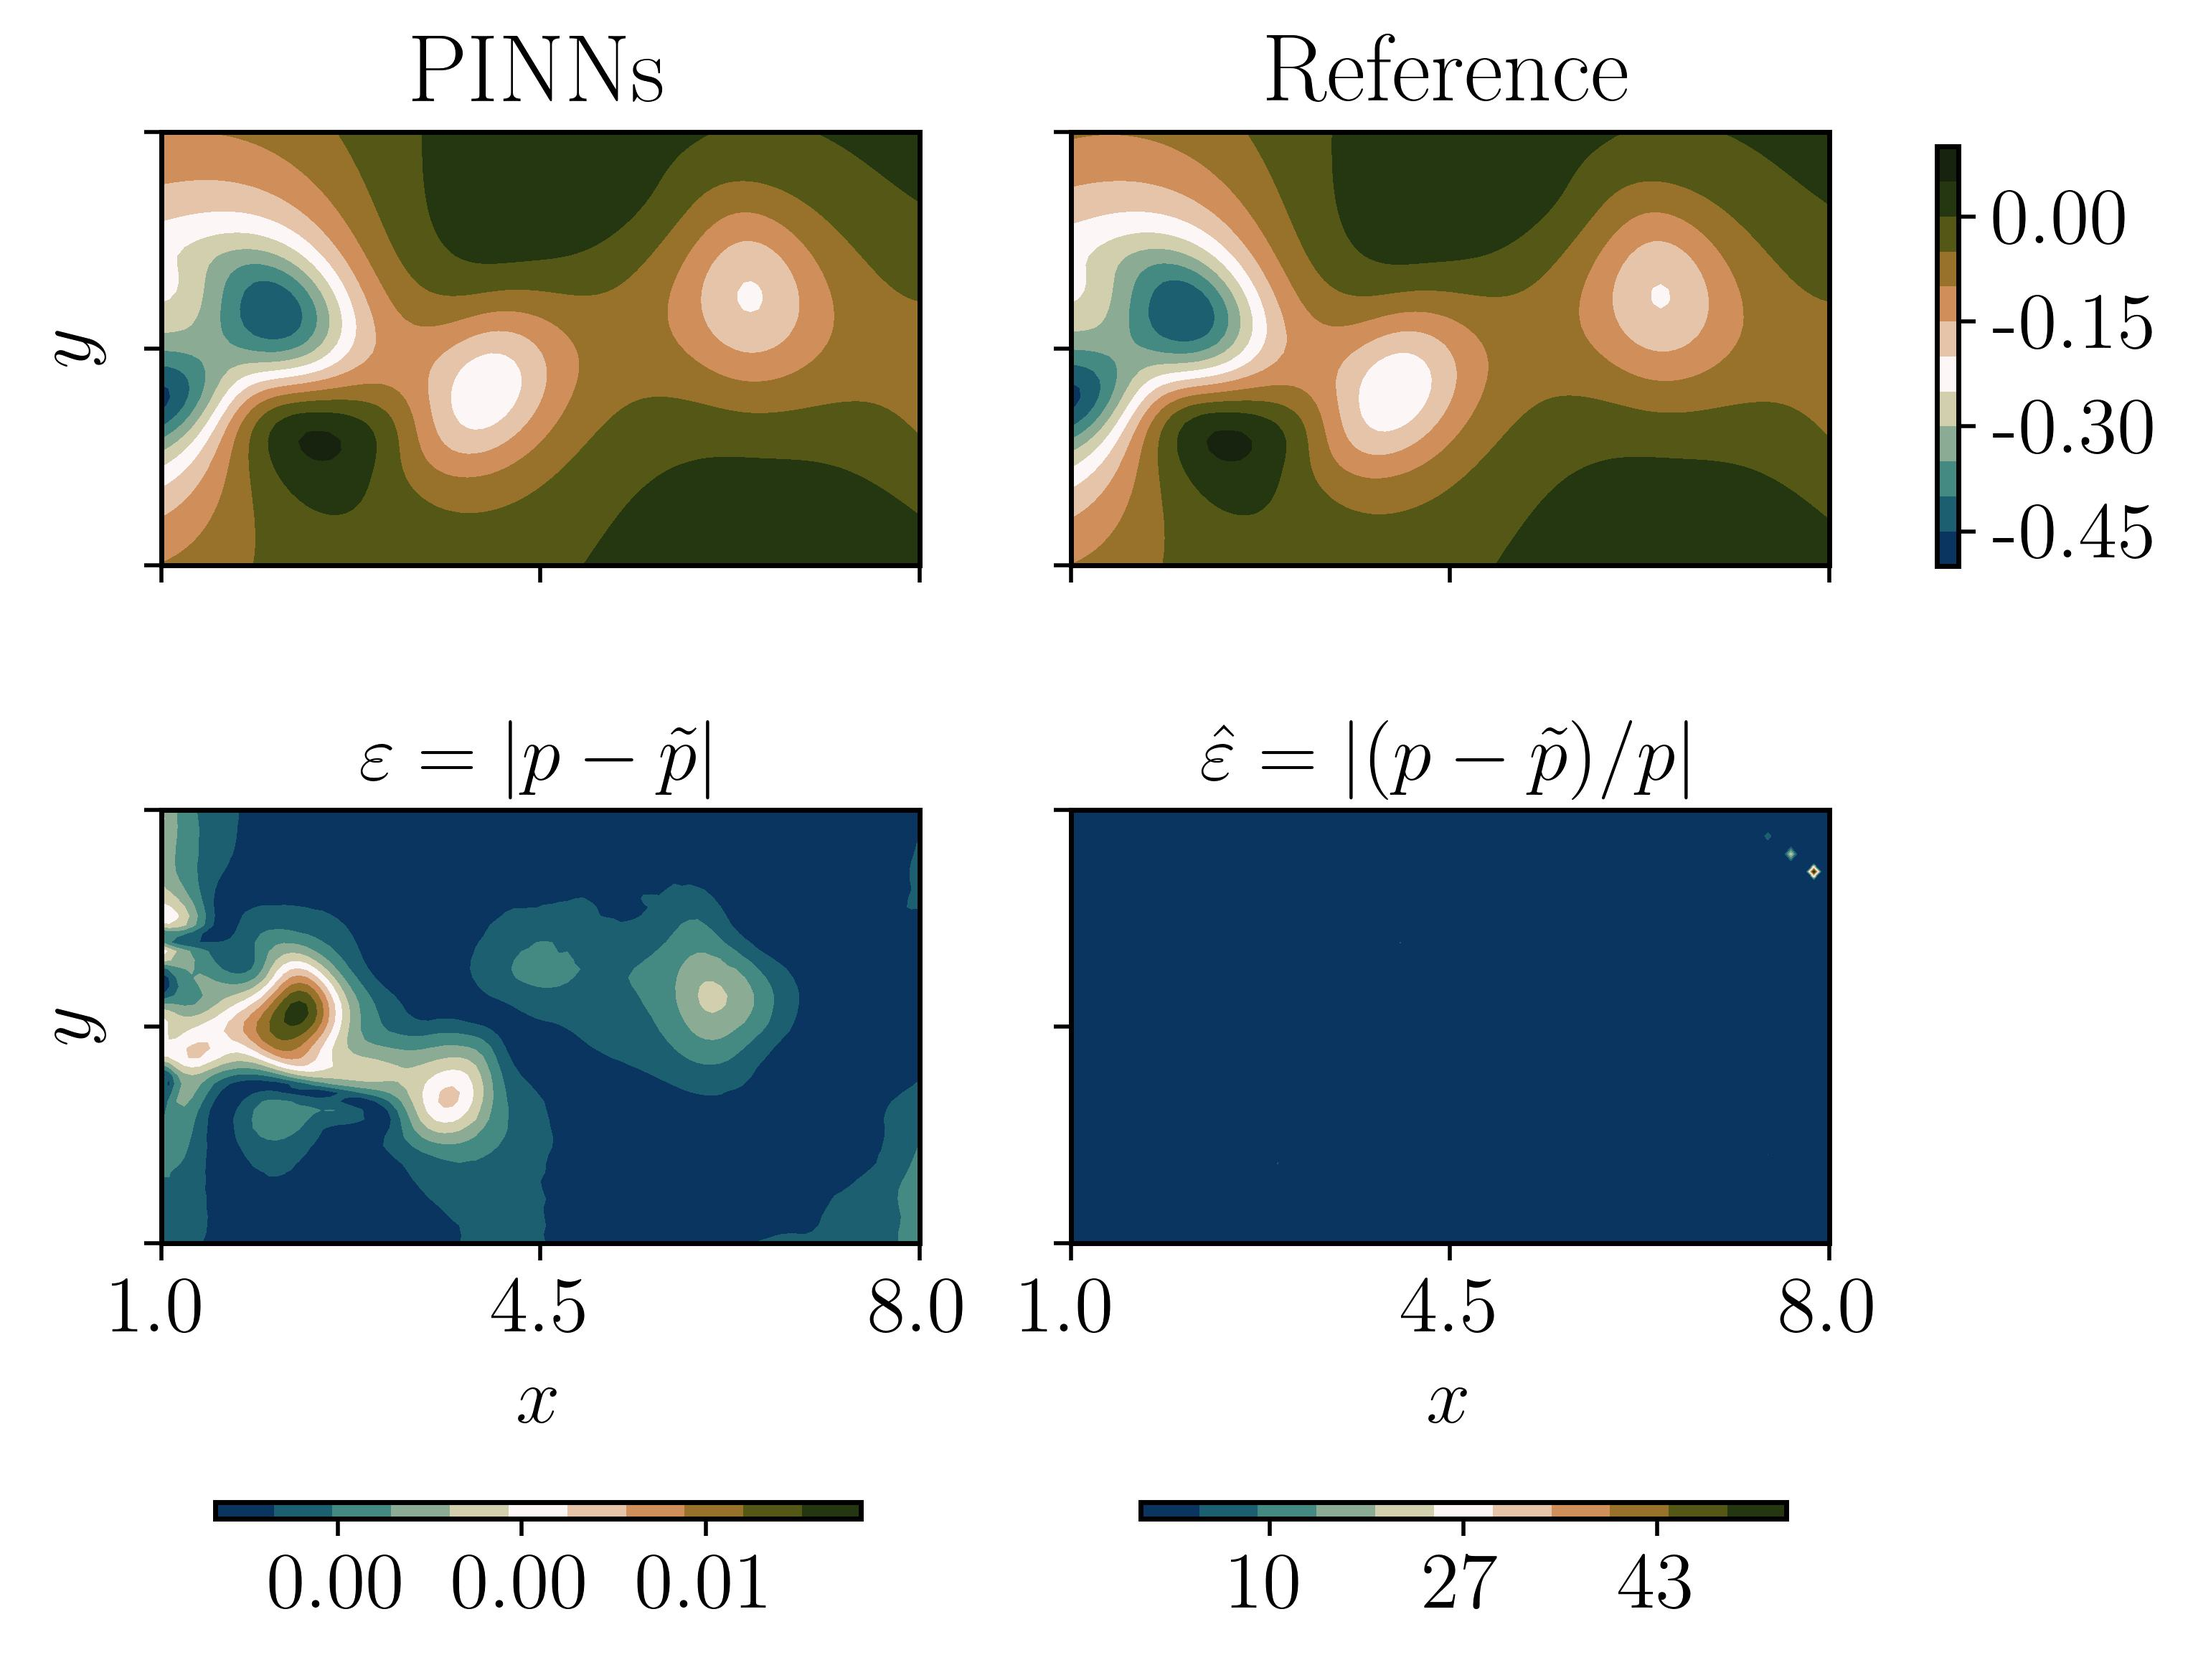
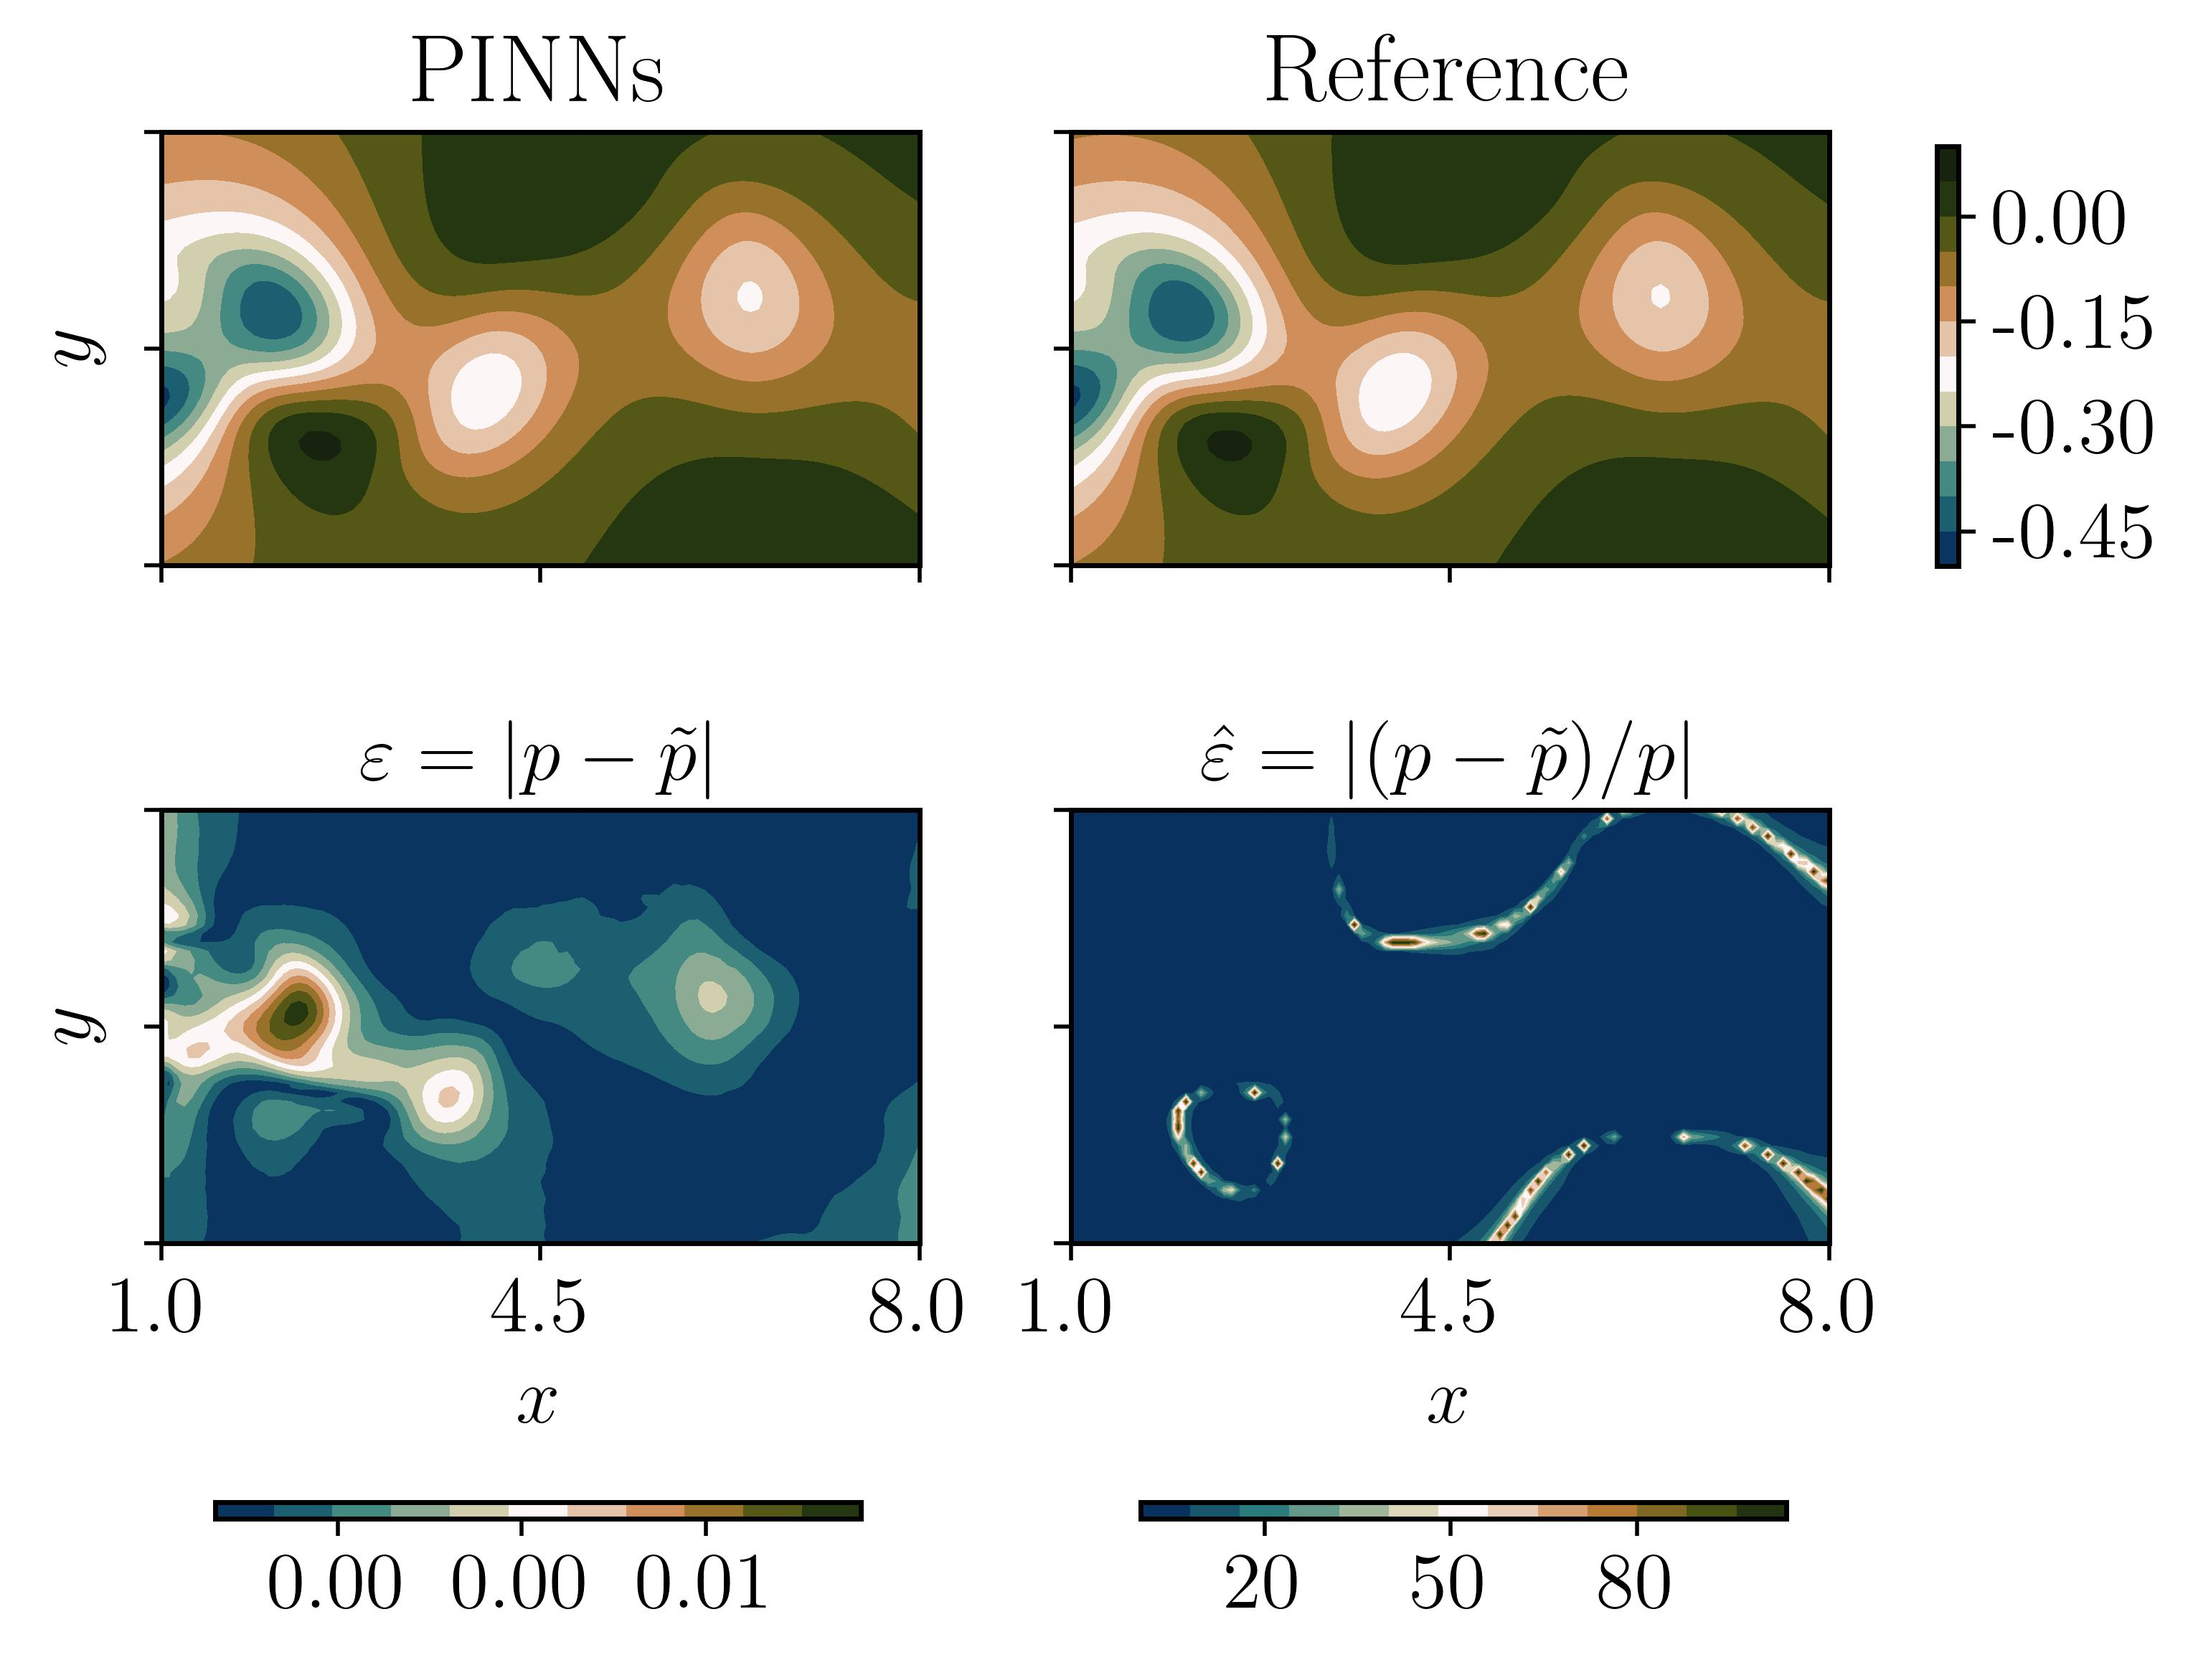
Update

diff --git a/cylinder_wake/post-processing/plot_res.py b/cylinder_wake/post-processing/plot_res.py
@@ -169,9 +169,9 @@ e_r_pinn = np.abs((p[:, :, n] - u_pinn[2, :, :, n]))/LA.norm(p[:, :, n,None],ord
 
 # e_r_pinn = np.abs((p[:, :, n] - u_pinn[2, :, :, n])/p[:, :, n])
 
-# e_r_pinn *= 100
-# loc = np.where(e_r_pinn >= 100)
-# e_r_pinn[loc] = 100
+e_r_pinn *= 100
+loc = np.where(e_r_pinn >= 100)
+e_r_pinn[loc] = 100
 
 # print(e_r_pinn)
 
@@ -226,7 +226,7 @@ ax[1,0].set_ylabel('$y$')
 ax[0,1].set_title('Reference')
 ax[0,0].set_title('PINNs')
 ax[1,0].set_title('$\\varepsilon = | p - \\tilde{p} |$', fontsize = 16)
-ax[1,1].set_title('$\\hat{\\varepsilon} = | (p - \\tilde{p})$' + "/" + "$ p |$", fontsize = 16)
+ax[1,1].set_title('$\\hat{\\varepsilon} = | (p - \\tilde{p})$' + "/" + "$ p |$" + " %", fontsize = 16)
 
 
 plt.savefig('clean_pressure.pdf', bbox_inches = 'tight', dpi = 500)
